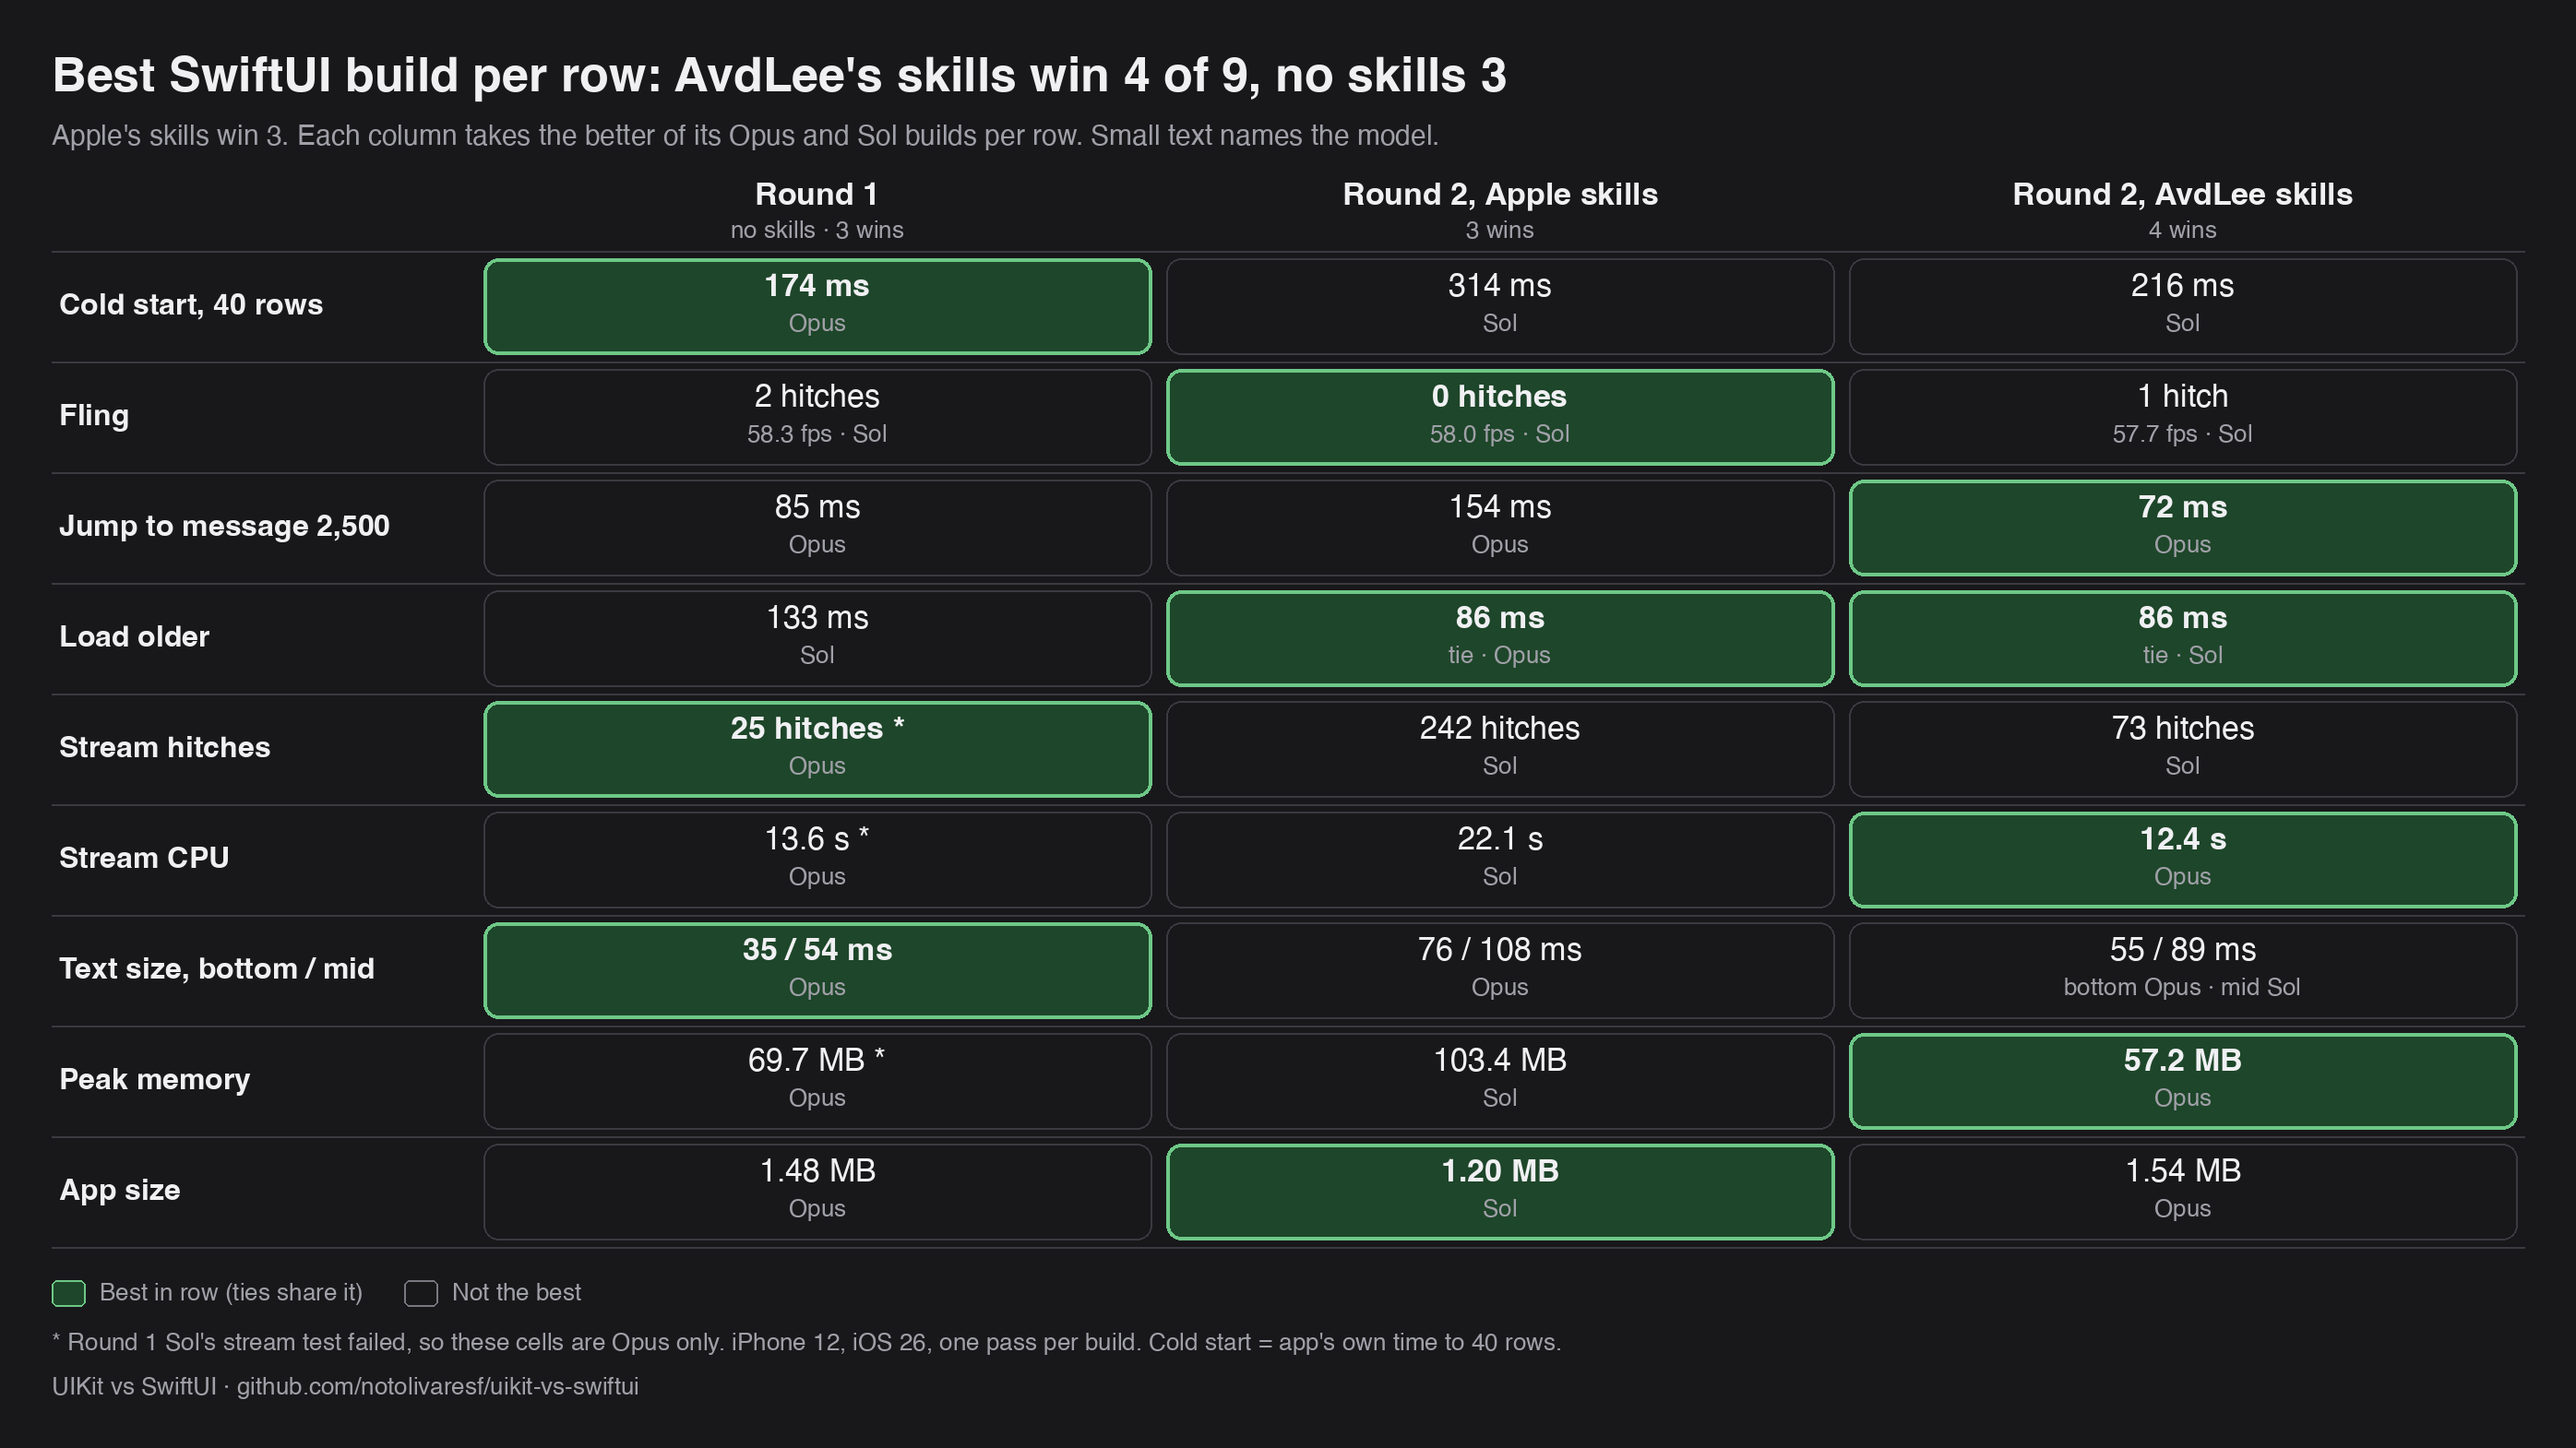
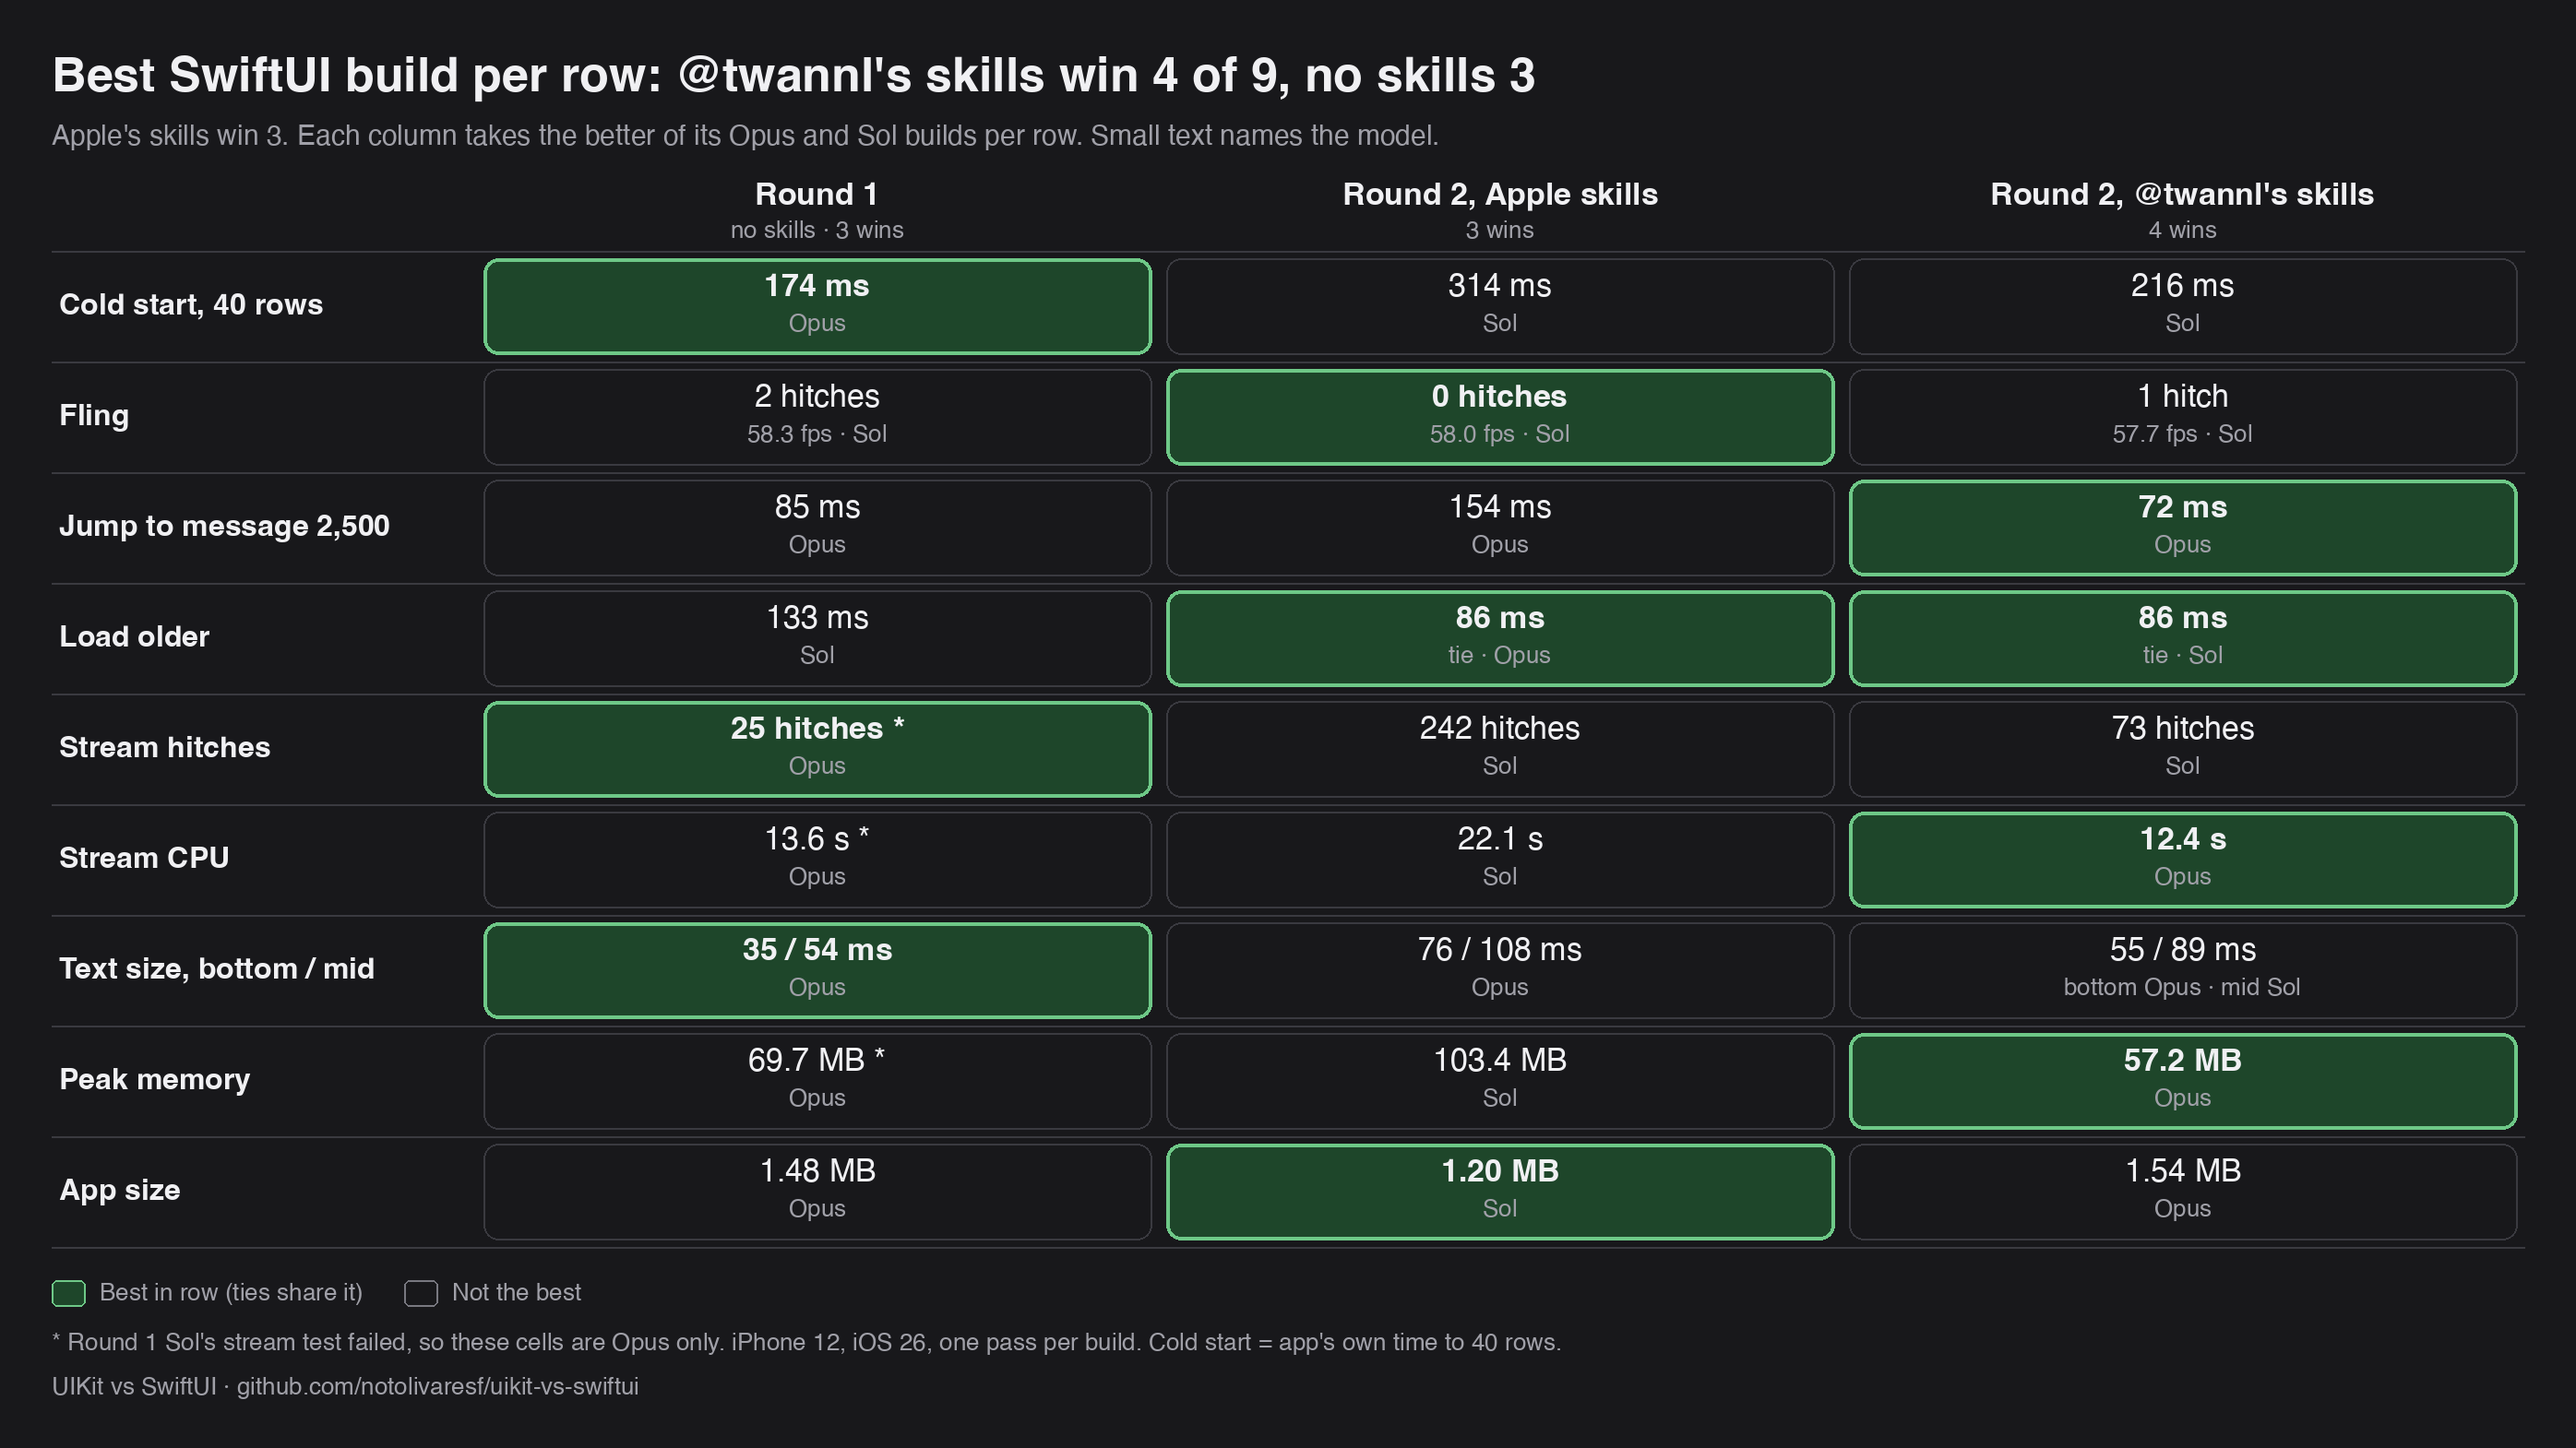
Add Best UIKit vs SwiftUI skills chart; rename AvdLee's skills to @twannl's skills in the SwiftUI charts

Changed region(s): [[0.2493, 0.0312, 0.592, 0.0624], [0.779, 0.1248, 0.9348, 0.1561]]

diff --git a/Harness/tools/results_table.py b/Harness/tools/results_table.py
@@ -8,8 +8,9 @@ Usage: python3 Harness/tools/results_table.py
        python3 Harness/tools/results_table.py --round2-best3   (best of each stack's two builds, three columns: results-round2-best3.png and -dark.png)
        python3 Harness/tools/results_table.py --round2-gap   (Round 2 distance from optimal: optimal-gap-round2.png and -dark.png)
        python3 Harness/tools/results_table.py --round2-best   (best UIKit vs best SwiftUI of Round 2: results-round2-best.png and -dark.png)
-       python3 Harness/tools/results_table.py --swiftui-3way   (best SwiftUI build per row: Round 1, Apple skills, AvdLee skills; 16:9: results-swiftui-3way.png and -dark.png)
-       python3 Harness/tools/results_table.py --swiftui-skills   (same, only Apple skills against AvdLee skills: results-swiftui-skills.png and -dark.png, 4:5 portrait)
+       python3 Harness/tools/results_table.py --swiftui-3way   (best SwiftUI build per row: Round 1, Apple skills, @twannl's skills; 16:9: results-swiftui-3way.png and -dark.png)
+       python3 Harness/tools/results_table.py --swiftui-skills   (same, only Apple skills against @twannl's skills: results-swiftui-skills.png and -dark.png, 4:5 portrait)
+       python3 Harness/tools/results_table.py --uikit-vs-swiftui-skills   (Best UIKit against the two SwiftUI skill sets, 4:5: results-uikit-vs-swiftui-skills.png and -dark.png)
        python3 Harness/tools/results_table.py --round3-best   (best UIKit vs best SwiftUI of Round 3: results-round3-best.png and -dark.png)
 """
 import os
@@ -398,28 +399,69 @@ def sw3_rows(cols=(0, 1, 2)):
 
 _SW3_ROWS, SW3_WINS = sw3_rows()
 assert SW3_WINS == [3, 3, 4], SW3_WINS
-SW3 = dict(title="Best SwiftUI build per row: AvdLee's skills win 4 of 9, no skills 3",
+SW3 = dict(title="Best SwiftUI build per row: @twannl's skills win 4 of 9, no skills 3",
            subtitle="Apple's skills win 3. Each column takes the better of its Opus and Sol builds per row. Small text names the model.",
            builds=[("Round 1", "no skills \u00b7 %d wins" % SW3_WINS[0]), ("Round 2, Apple skills", "%d wins" % SW3_WINS[1]),
-                   ("Round 2, AvdLee skills", "%d wins" % SW3_WINS[2])],
+                   ("Round 2, @twannl's skills", "%d wins" % SW3_WINS[2])],
            rows=_SW3_ROWS, col_w=370, label_w=230, file="results-swiftui-3way", groups=None, aspect=16 / 9,
            legend=[("ok", "Best in row (ties share it)"), ("none", "Not the best")],
            note="* Round 1 Sol's stream test failed, so these cells are Opus only. iPhone 12, iOS 26, one pass per build. Cold start = app's own time to 40 rows.",
            footer="UIKit vs SwiftUI \u00b7 github.com/notolivaresf/uikit-vs-swiftui")
 
-# Same data, only the two Round 2 columns (Apple skills against AvdLee skills), rendered with --swiftui-skills. Wins recomputed, ties share.
+# Same data, only the two Round 2 columns (Apple skills against @twannl's skills), rendered with --swiftui-skills. Wins recomputed, ties share.
 _SK_ROWS, SK_WINS = sw3_rows((1, 2))
 _SK_ONLY = sum(1 for _, c in _SK_ROWS if c[0][3] and not c[1][3])
 _SK_ONLY_AVD = sum(1 for _, c in _SK_ROWS if c[1][3] and not c[0][3])
 _SK_TIES = sum(1 for _, c in _SK_ROWS if c[0][3] and c[1][3])
 assert (_SK_ONLY_AVD, _SK_ONLY, _SK_TIES) == (6, 2, 1), (_SK_ONLY_AVD, _SK_ONLY, _SK_TIES)
-SWSK = dict(title="AvdLee's skills beat Apple's on %d of 9 rows, Apple's on %d, %d tie" % (_SK_ONLY_AVD, _SK_ONLY, _SK_TIES),
+SWSK = dict(title="@twannl's skills beat Apple's on %d of 9 rows, Apple's on %d, %d tie" % (_SK_ONLY_AVD, _SK_ONLY, _SK_TIES),
             subtitle="Best SwiftUI build of each, per row. Small text names the model the value came from.",
-            builds=[("Round 2, Apple skills", "%d wins (with the tie)" % SK_WINS[0]), ("Round 2, AvdLee skills", "%d wins (with the tie)" % SK_WINS[1])],
+            builds=[("Round 2, Apple skills", "%d wins (with the tie)" % SK_WINS[0]), ("Round 2, @twannl's skills", "%d wins (with the tie)" % SK_WINS[1])],
             rows=[(l, [(st, m.rstrip(" *"), sb, b) for st, m, sb, b in c]) for l, c in _SK_ROWS],
             col_w=240, label_w=220, file="results-swiftui-skills", groups=None, aspect=4 / 5,
             legend=SW3["legend"],
             note="iPhone 12, iOS 26, one pass per build. Each column takes the better of its Opus and Sol builds. Cold start = app's own time to 40 rows.",
+            footer=SW3["footer"])
+
+# --- Best UIKit against the two SwiftUI skill sets (docs/results-round2.md, results-l2-avdlee.md), rendered with --uikit-vs-swiftui-skills ---
+# Best UIKit = best value per row across the four Round 2 UIKit builds (Swift and Objective-C, Opus and Sol), iPhone 12; none of those
+# cells is a bent-rules one. The two SwiftUI columns are SW3_ROWS columns 1 and 2. Winners computed, ties share.
+UK_ROWS = [
+    ("Cold start, 40 rows", (158, "158 ms", "Opus \u00b7 ObjC")),
+    ("Fling", (0, "0 hitches", "58.2 fps \u00b7 Sol \u00b7 Swift")),
+    ("Jump to message 2,500", (67, "67 ms", "Opus \u00b7 ObjC")),
+    ("Load older", (34, "34 ms", "Opus \u00b7 ObjC")),
+    ("Stream hitches", (1, "1 hitch", "Opus \u00b7 Swift")),
+    ("Stream CPU", (11.9, "11.9 s", "Opus \u00b7 ObjC")),
+    ("Text size, bottom / mid", (53, "53 / 70 ms", "Sol \u00b7 Swift")),
+    ("Peak memory", (35.0, "35.0 MB", "Sol \u00b7 ObjC")),
+    ("App size", (0.64, "0.64 MB", "Sol \u00b7 Swift")),
+]
+
+
+def uk_rows():
+    rows, wins = [], [0, 0, 0]
+    for (label, uk), (l2, sw) in zip(UK_ROWS, SW3_ROWS):
+        assert label == l2
+        cells = [uk, sw[1], sw[2]]
+        best = min(c[0] for c in cells)
+        idx = [i for i, c in enumerate(cells) if c[0] == best]
+        for i in idx:
+            wins[i] += 1
+        rows.append((label, [("ok" if i in idx else "none", m.rstrip(" *"), ("tie \u00b7 " + sb) if i in idx and len(idx) > 1 else sb, i in idx)
+                             for i, (k, m, sb) in enumerate(cells)]))
+    return rows, wins
+
+
+_UK_ROWS, UK_WINS = uk_rows()
+assert UK_WINS == [9, 1, 0], UK_WINS
+UKSW = dict(title="Best UIKit wins all 9 rows; SwiftUI with either skill set wins none outright",
+            subtitle="Best UIKit is the best value per row of the four Round 2 UIKit builds (Swift and Objective-C, Opus and Sol). The SwiftUI columns are the better of their Opus and Sol builds. Small text names the model and language.",
+            builds=[("Best UIKit", "%d wins" % UK_WINS[0]), ("SwiftUI, Apple's skills", "%d win (a tie)" % UK_WINS[1]),
+                    ("SwiftUI, @twannl's skills", "%d wins" % UK_WINS[2])],
+            rows=_UK_ROWS, col_w=260, label_w=210, file="results-uikit-vs-swiftui-skills", groups=None, aspect=4 / 5,
+            legend=SW3["legend"],
+            note="iPhone 12, iOS 26, one pass per build. Fling: Best UIKit and Apple's skills tie at 0 hitches. Cold start = app's own time to 40 rows.",
             footer=SW3["footer"])
 
 # --- Round 2 distance from optimal (docs/optimal-gap-round2.md), rendered only with --round2-gap ---
@@ -556,6 +598,8 @@ def render(name, spec=None):
     _md = ImageDraw.Draw(_m)
     tlines = wrap(_md, spec["title"], font(26, True), W - 2 * PAD)  # a narrow chart wraps its headline and note
     title_h += 32 * (len(tlines) - 1)
+    slines = wrap(_md, spec["subtitle"], font(15), W - 2 * PAD)
+    title_h += 20 * (len(slines) - 1)
     nlines = wrap(_md, spec["note"], font(13), W - 2 * PAD) if spec.get("note") else []
     note_h = 18 * max(len(nlines), 1) + 6 if nlines else 0
     fixed = PAD + title_h + group_h + HEAD_H + 56 + PAD + note_h
@@ -570,8 +614,8 @@ def render(name, spec=None):
     y = PAD
     for k, tl in enumerate(tlines):
         d.text((x0 * S, (y + 14 + 32 * k) * S), tl, font=font(26, True), fill=th["text"], anchor="lm")
-    d.text((x0 * S, (y + 46 + 32 * (len(tlines) - 1)) * S), spec["subtitle"],
-           font=font(15), fill=th["muted"], anchor="lm")
+    for k, sl in enumerate(slines):
+        d.text((x0 * S, (y + 46 + 32 * (len(tlines) - 1) + 20 * k) * S), sl, font=font(15), fill=th["muted"], anchor="lm")
     y += title_h
     # group header
     for g, (a, b) in groups or []:
@@ -648,7 +692,9 @@ def render(name, spec=None):
 if __name__ == "__main__":
     import sys
     for n in THEMES:
-        if "--swiftui-skills" in sys.argv:
+        if "--uikit-vs-swiftui-skills" in sys.argv:
+            render(n, UKSW)
+        elif "--swiftui-skills" in sys.argv:
             render(n, SWSK)
         elif "--swiftui-3way" in sys.argv:
             render(n, SW3)
